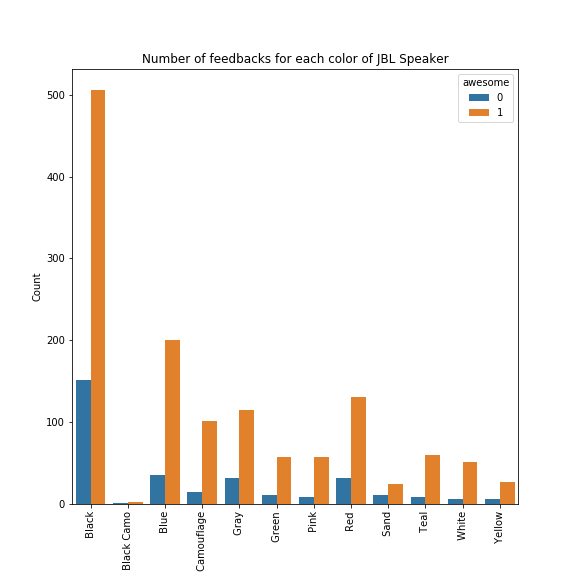
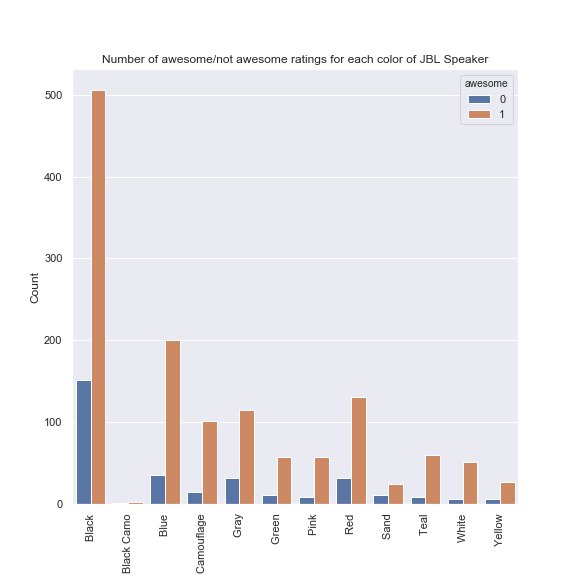
update

diff --git a/README.md b/README.md
@@ -28,6 +28,9 @@ The figure below depicts that most of the reviews with good and awsome ratings h
 In the figure below, number of each rating for each color of JBL Speaker has been shown. as it can be seen, most of theratings are 5 stars (awesome).
 <img src="https://github.com/kavehamini/Amazon-Review-Analysis-JBL-Charge-4-Speaker-Sentiment-Analysis-NLP/blob/master/3.png">
 
+And in the next figure, the number of awesome (5star)/not awesome ratings for each color of JBL Speaker has been depicted.
+<img src="https://github.com/kavehamini/Amazon-Review-Analysis-JBL-Charge-4-Speaker-Sentiment-Analysis-NLP/blob/master/4.png">
+
 
 ## Conclusion
 
